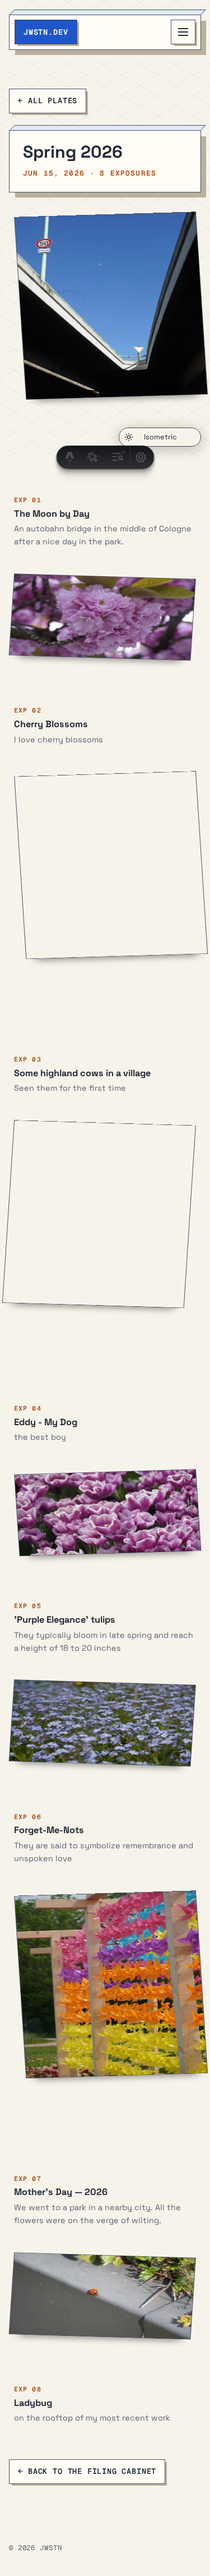
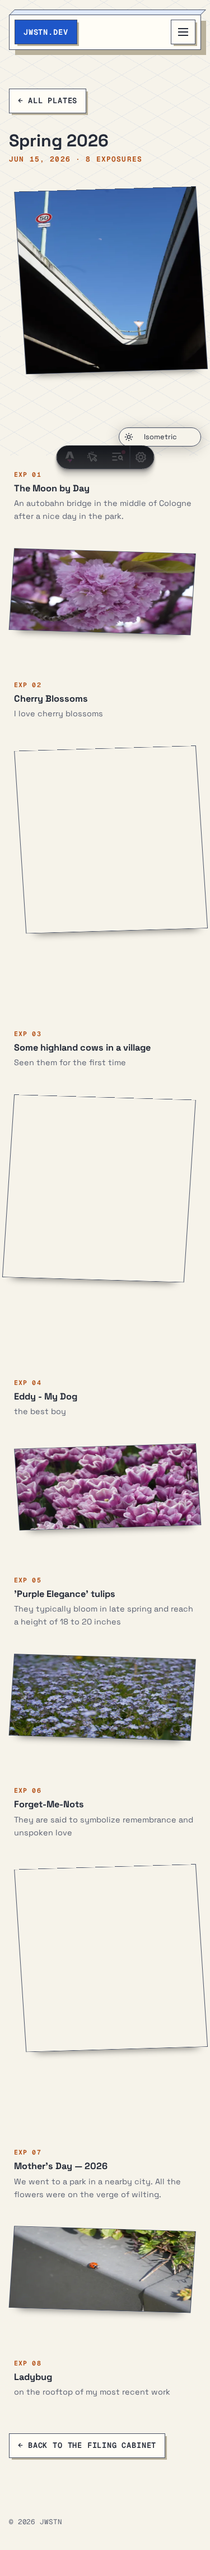
Remove duplicate pagehead bars across the isometric pages; roomier gallery mobile spacing (#31, #32)

diff --git a/src/themes/isometric/theme.css b/src/themes/isometric/theme.css
@@ -640,10 +640,10 @@ html.theme-isometric .iso-door-cta {
 html.theme-isometric .iso-pagehead {
   display: flex;
   flex-wrap: wrap;
-  align-items: flex-end;
+  align-items: baseline;
   justify-content: space-between;
-  gap: 0.8rem 1.5rem;
-  padding: 1.4rem 1.5rem;
+  gap: 0.5rem 1.5rem;
+  padding-block: 0.2rem;
 }
 html.theme-isometric .iso-pagehead-title {
   margin: 0;
@@ -1150,6 +1150,17 @@ html.theme-isometric .iso-plate-title {
 html.theme-isometric .iso-plate-note {
   font-size: 0.9rem;
   color: var(--muted-foreground);
+}
+
+/* Gallery — a roomier vertical rhythm on phones */
+@media (max-width: 48rem) {
+  html.theme-isometric .iso-gallery.iso-stack {
+    gap: 2.8rem;
+    padding-block: 2.25rem 4rem;
+  }
+  html.theme-isometric .iso-gallery .iso-albums {
+    gap: 2.8rem;
+  }
 }
 
 /* ------------------------------------------------------------------ */

diff --git a/THEME_CONTRACT.md b/THEME_CONTRACT.md
@@ -21,6 +21,16 @@ Read it fully before writing any code.
     strips it when switching so the saved theme wins.
 - `classic` (`src/themes/classic/`) is the original site design, kept as the default. Do not modify it.
 
+## Design rules (site-wide)
+
+- **No page-head bars that repeat the navigation.** A route already named in the header (Projects,
+  Blog, Gallery, Music) must not open with a large boxed title duplicating it — use a visually hidden
+  `<h1>` for semantics.
+- Headings that carry real content (album title, post title) are set as plain typography — never
+  inside a slab/box imitating navigation chrome.
+- Do not add elements whose only job is to repeat information already on the page (nav labels,
+  counts, section names in multiple styles).
+
 ## Files you create — exactly this shape
 
 ```
